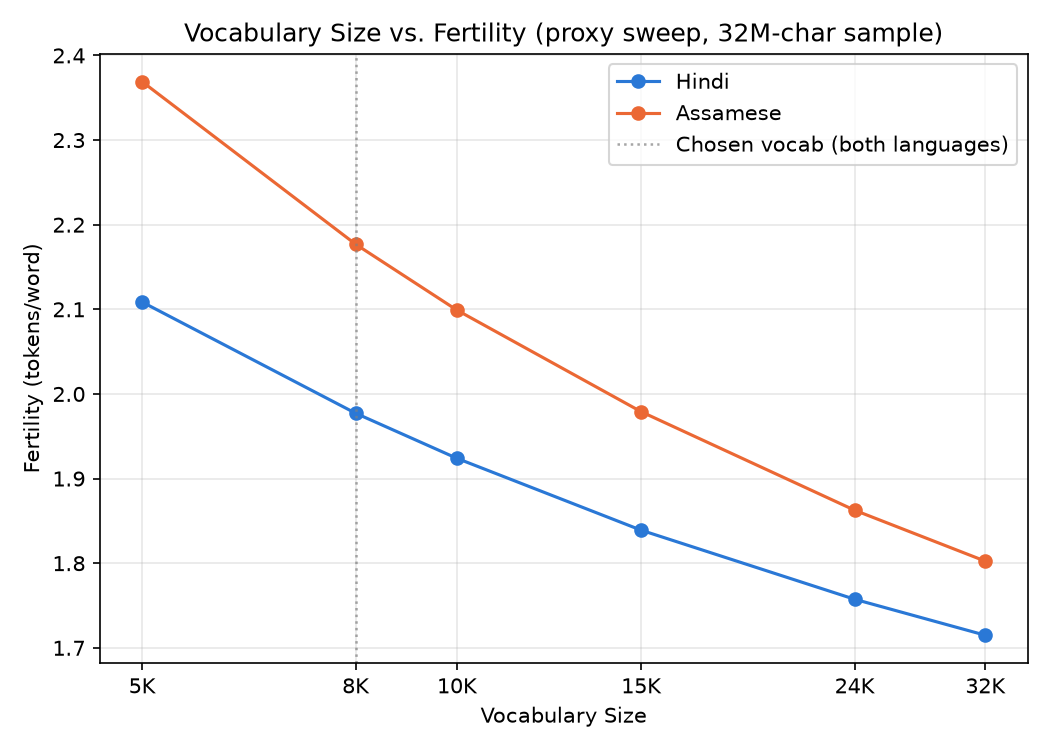
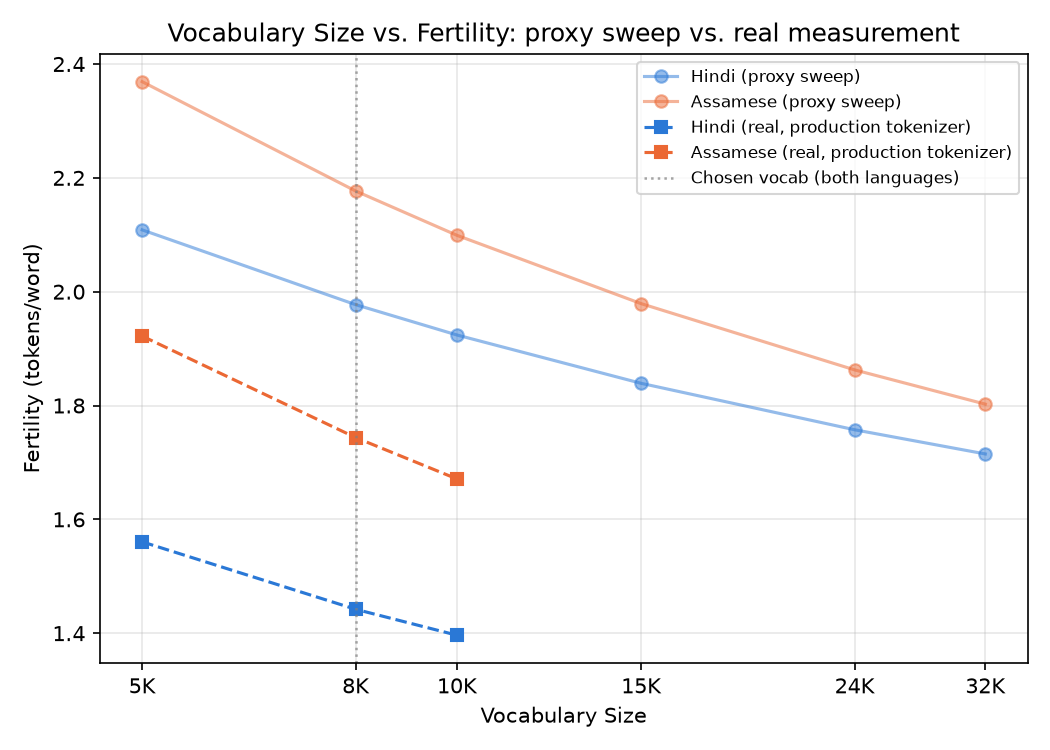
Correct a stale Hindi tokenizer statistic and add real data to the fertility figure
Avg chars/token (real corpus encoding) for Hindi was stale from an earlier
unverified measurement and did not match its own held-out split; recomputed
and corrected. Also overlaid the real per-vocab-size fertility measurements
on the proxy-sweep figure so the plot matches the numbers already in the
report tables.

diff --git a/report/make_figures.py b/report/make_figures.py
@@ -60,12 +60,22 @@ def plot_train_val_test_split():
 
 def plot_fertility_vs_vocab():
     vocab_sizes = [5000, 8000, 10000, 15000, 24000, 32000]
-    hindi = [2.1086, 1.9772, 1.9239, 1.8390, 1.7574, 1.7149]
-    assamese = [2.369, 2.1769, 2.099, 1.9790, 1.8626, 1.8024]
+    hindi_proxy = [2.1086, 1.9772, 1.9239, 1.8390, 1.7574, 1.7149]
+    assamese_proxy = [2.369, 2.1769, 2.099, 1.9790, 1.8626, 1.8024]
+
+    real_vocab_sizes = [5000, 8000, 10000]
+    hindi_real = [1.5605, 1.4420, 1.3964]
+    assamese_real = [1.9220, 1.7437, 1.6710]
 
     fig, ax = plt.subplots(figsize=(7, 5))
-    ax.plot(vocab_sizes, hindi, marker="o", label="Hindi", color="#2a78d6")
-    ax.plot(vocab_sizes, assamese, marker="o", label="Assamese", color="#eb6834")
+    ax.plot(vocab_sizes, hindi_proxy, marker="o", label="Hindi (proxy sweep)",
+            color="#2a78d6", alpha=0.5)
+    ax.plot(vocab_sizes, assamese_proxy, marker="o", label="Assamese (proxy sweep)",
+            color="#eb6834", alpha=0.5)
+    ax.plot(real_vocab_sizes, hindi_real, marker="s", linestyle="--",
+            label="Hindi (real, production tokenizer)", color="#2a78d6")
+    ax.plot(real_vocab_sizes, assamese_real, marker="s", linestyle="--",
+            label="Assamese (real, production tokenizer)", color="#eb6834")
     ax.axvline(8000, color="gray", linestyle=":", linewidth=1.2, alpha=0.7,
                label="Chosen vocab (both languages)")
     ax.set_xscale("log")
@@ -74,8 +84,8 @@ def plot_fertility_vs_vocab():
     ax.minorticks_off()
     ax.set_xlabel("Vocabulary Size")
     ax.set_ylabel("Fertility (tokens/word)")
-    ax.set_title("Vocabulary Size vs. Fertility (proxy sweep, 32M-char sample)")
-    ax.legend()
+    ax.set_title("Vocabulary Size vs. Fertility: proxy sweep vs. real measurement")
+    ax.legend(fontsize=8)
     ax.grid(True, alpha=0.3)
     fig.tight_layout()
     fig.savefig(f"{FIGURES_DIR}/fertility_vs_vocab.png", dpi=150)

diff --git a/report/phase1_dataset_statistics.md b/report/phase1_dataset_statistics.md
@@ -82,8 +82,10 @@ At d_model=384 (illustrative; final architecture is a Phase 2 decision), an 8K-v
 | Fertility | 1.4420 tokens/word | 1.7437 tokens/word |
 | UNK rate | 0.0 | 0.0 |
 | Avg chars/token (vocab pieces) | 4.075 | 4.325 |
-| Avg chars/token (real corpus encoding) | 3.276 | 3.689 |
+| Avg chars/token (real corpus encoding) | 3.5869 | 3.6890 |
 | Top frequent pieces (excluding special tokens) | `▁क ▁स ▁ह ▁म ▁प ्र ें ार ▁है ▁के` | `▁ক য় াৰ ▁ব ▁প ▁স ▁আ ্ৰ ▁ম ্য` |
+
+"Real corpus encoding" is measured as total raw character count (including spaces) of the held-out val split, divided by the number of BPE tokens the production tokenizer produces encoding it. Hindi's figure was corrected during a later audit pass: the previously reported 3.276 could not be reproduced with this method and was stale from an earlier, unverified measurement; 3.5869 is the current, reproducible value on the same val split used for its fertility measurement.
 
 ### Tokenization examples
 
